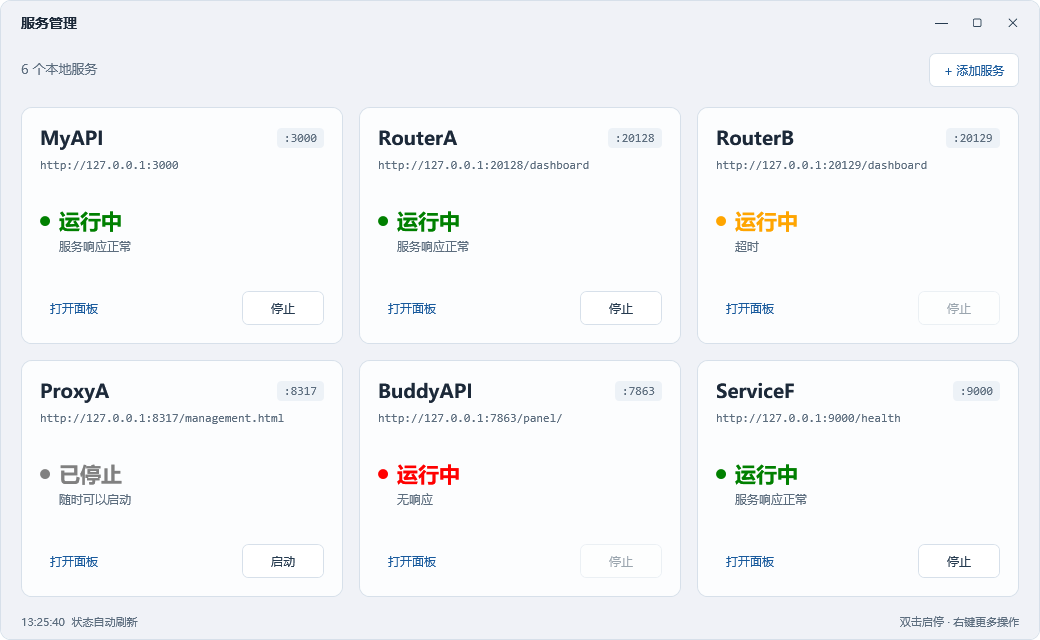
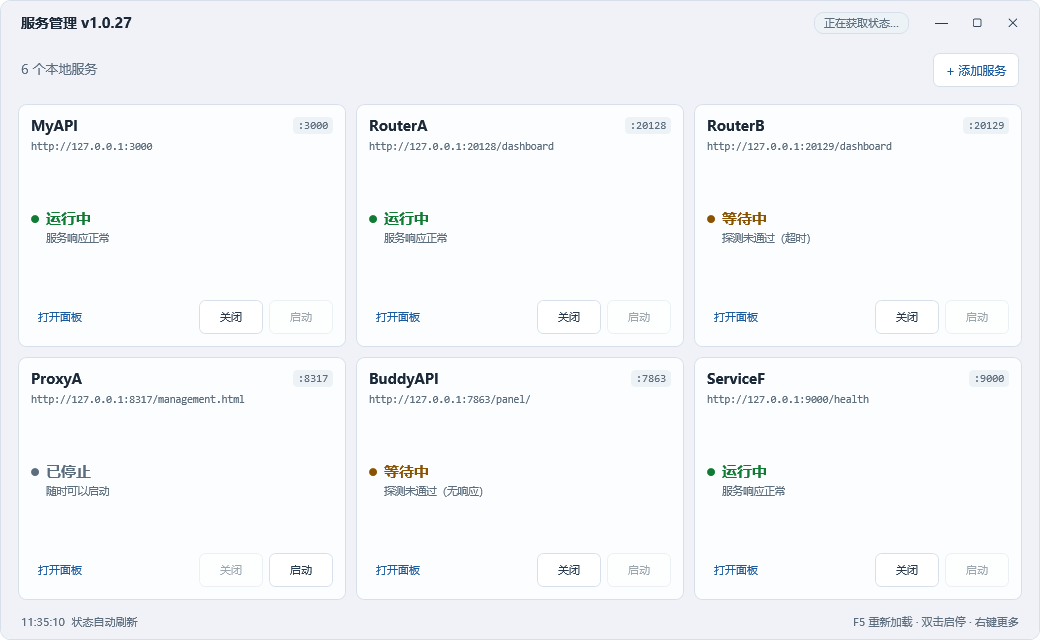
feat(ui): show every service on one page with compact cards
- Drop pagination: Render-Page renders all services; prev/next, the page
  label, curPage and Get-PageCount are gone. UniformGrid columns follow the
  service count (1/2/3/4 for <=1/<=2/<=6/7+), rows = ceil(n/cols).
- Compact card metrics: outer margin 8->5, padding 18->12, smaller titles,
  state, port/URL text and buttons (MinWidth 82->64). Seven services fit a
  1040x640 window as 4x2 with 244x243 cards.
- Retire PerPage (config, config.example.json, range table, tests updated).
- Regenerate assets/screenshot.png; stop double-stamping the status bar in
  tests/make-screenshot.ps1. Bump VERSION to 1.0.28.

diff --git a/CHANGELOG.md b/CHANGELOG.md
@@ -3,6 +3,15 @@
 > 本文件记录每次迭代的「为什么改」与「改了什么」，不重复 commit message（那是 git log 的事）。
 > 代码是行为真相，本文件是**阶段性脉络**——读完能看懂这工具怎么走到今天。
 
+## [1.0.28] - 2026-11-18
+
+一屏全量：服务不多时，翻页只是多点两下的负担。
+
+- **取消分页**（`lib/xaml.ps1`）：`Render-Page` 一次渲染全部服务，`Get-PageCount`、`上一页/下一页`、`第 N/M 页` 与 `$script:curPage` 一并移除；`UniformGrid` 的列数改由数量决定（1→1、2→2、3~6→3、7 及以上→4），行数按 `ceil(n/cols)` 算，卡片随格子等分缩放。
+- **卡片紧凑**（`lib/card.ps1`）：外边距 8→5、内边距 18→12、圆角 10→8；服务名 17→14、状态 18→15、端口/副标题/URL 各降 1~1.5pt；启动/关闭按钮 `MinWidth` 82→64、内边距 14,6→9,4。「打开面板」与错误提示同步收小。实测 7 个服务在 1040×640 默认窗口内排成 4×2（单卡 244×243），无需滚动。
+- **`PerPage` 退役**（`lib/config.ps1` / `config.example.json`）：配置键与区间校验一并删除；`test-config-params` 的覆盖/越界/默认三段改用其它键断言，示例与默认的键集合断言保持。
+- **截图与脚本**（`assets/screenshot.png` / `tests/make-screenshot.ps1`）：按新布局重出；顺带修掉截图状态栏重复拼时间戳（`Set-StatusMessage` 自己会补）。
+
 ## [1.0.27] - 2026-11-17
 
 伴随服务：让依赖关系显式化，别再靠两张卡各点一次。

diff --git a/docs/ARCHITECTURE.md b/docs/ARCHITECTURE.md
@@ -9,7 +9,7 @@
 ```
 入口层      service-manager-gui.ps1     CLI 分支 · 提权 · 依赖预检 · 模块加载 · 窗口启动
             launch.vbs                  wscript → runas pwsh（无控制台）
-UI 层       lib/xaml.ps1                窗口外壳 · 分页 · 状态栏
+UI 层       lib/xaml.ps1                窗口外壳 · 单页卡片网格 · 状态栏
             lib/card.ps1                卡片：状态呈现、按钮、右键菜单、过渡态
             lib/dialogs.ps1             添加/删除对话框（提交体可单测）
             lib/logview.ps1             日志窗口 · 健康历史窗口
